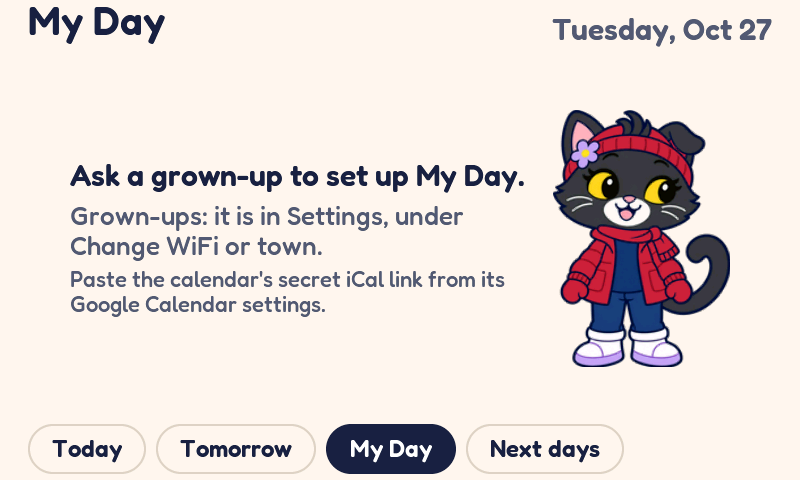
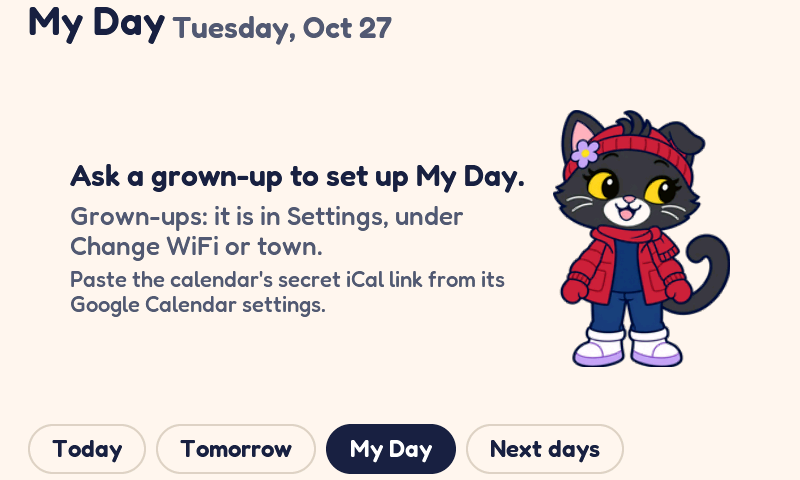
iter-36: sim gate additions (line space, measured text width), outline debug render, stack probe, refreshed renders

Changed region(s): [[0.6875, 0.0312, 0.9688, 0.0938], [0.2188, 0.0312, 0.5, 0.0938]]

diff --git a/sim/check_renders.py b/sim/check_renders.py
@@ -1361,13 +1361,13 @@ def main():
           f"40_myday: today row 1 is the all-day picture day with the ALL DAY pill ({md['myday_today0']})")
     check(md["myday_today1"] == "10:00-10:45 AM|Lila's library story time|",
           f"40_myday: today row 2 is Lila's library story time with its end time ({md['myday_today1']})")
-    check(md["myday_today2"] == "3:30-4:30 PM|Cleo's soccer practice|Roosevelt Field",
+    check(md["myday_today2"] == "3:30-4:30 PM|Cleo's soccer practice|",
           f"40_myday: today row 3 is soccer with its end time ({md['myday_today2']})")
     check(md["myday_today3"] == "4:00-4:45 PM|Video call with Grandma|",
           f"40_myday: today row 4 is the UTC call at 4 PM local with its end time ({md['myday_today3']})")
-    check(md["myday_tom0"] == "8:00-9:00 AM|School bake sale|Watchung School gym",
+    check(md["myday_tom0"] == "8:00-9:00 AM|School bake sale|",
           f"40_myday: tomorrow row 1 is the bake sale with its end time ({md['myday_tom0']})")
-    check(md["myday_tom1"] == "4:00-4:30 PM|Cleo's piano lesson|Music school",
+    check(md["myday_tom1"] == "4:00-4:30 PM|Cleo's piano lesson|",
           f"40_myday: tomorrow row 2 is Cleo's piano with its end time, folded summary unfolded ({md['myday_tom1']})")
     # Iter-15: the freshness line (fixture fetch pinned to 7:02 AM
     # today, so the same-day form). Iter-16: the NEXT tag — at the
@@ -1451,7 +1451,7 @@ def main():
           f"45_myday_late: NOW tag on soccer practice, in progress at 3:45 ({md45['myday_nowup']})")
     check(md45["myday_done"] == "Lila's library story time" and md45["myday_dimmed"] == "Lila's library story time",
           f"45_myday_late: story time DONE and dimmed as past (done={md45['myday_done']!r})")
-    check(md45["myday_tom1"] == "4:00-4:30 PM|Cleo's piano lesson|Music school",
+    check(md45["myday_tom1"] == "4:00-4:30 PM|Cleo's piano lesson|",
           f"45_myday_late: tomorrow rows unchanged in the afternoon ({md45['myday_tom1']})")
     check(md45["myday_icons"] == "camera,book,soccer" and md45["myday_half"] == "0",
           f"45_myday_late: the visible rows' icons in the afternoon (icons={md45['myday_icons']}, half={md45['myday_half']})")
@@ -1466,7 +1466,7 @@ def main():
           f"46_myday_dst: 2 rows today, tomorrow's 3 folded over the fall-back (state={md46['myday_state']}, {md46['myday_today_n']}/{md46['myday_tom_n']})")
     check(md46["myday_more_tom"] == "3" and md46["myday_icons"] == "star,videocall",
           f"46_myday_dst: the fold counts tomorrow's 3 (more={md46['myday_more_tom']}, icons={md46['myday_icons']})")
-    check(md46["myday_today0"] == "10:00-11:00 AM|Pumpkin patch visit|Chestnut Hill Farm",
+    check(md46["myday_today0"] == "10:00-11:00 AM|Pumpkin patch visit|",
           f"46_myday_dst: today's first row (today0={md46['myday_today0']!r})")
     check(md46["myday_today1"] == "1:00-1:45 PM|Video call with Grandpa|",
           f"46_myday_dst: the UTC call lands at 1 PM EDT today ({md46['myday_today1']})")
@@ -1484,24 +1484,25 @@ def main():
 
     # Iter-35: the stress and evening fixtures. Stress (9:20 AM):
     # six events today (an all-day, a DONE naming both girls with
-    # a long street address, a NOW, a NEXT with a 61-char title),
-    # one tomorrow; only the first two cards fit, the rest fold.
+    # a long street address in the feed, a NOW, a NEXT with a
+    # 38-char title), one tomorrow. Iter-36: the shorter
+    # full-width cards fit three, the rest fold.
     md47 = dump("47_myday_stress")
-    check(md47["myday_state"] == "events" and md47["myday_today_n"] == "2" and md47["myday_tom_n"] == "0",
-          f"47_myday_stress: populated, 2 cards shown of 7 (state={md47['myday_state']}, {md47['myday_today_n']}/{md47['myday_tom_n']})")
-    check(md47["myday_more_today"] == "4" and md47["myday_more_tom"] == "1",
-          f"47_myday_stress: the fold counts 4 today, 1 tomorrow ({md47['myday_more_today']}/{md47['myday_more_tom']})")
+    check(md47["myday_state"] == "events" and md47["myday_today_n"] == "3" and md47["myday_tom_n"] == "0",
+          f"47_myday_stress: populated, 3 cards shown of 7 (state={md47['myday_state']}, {md47['myday_today_n']}/{md47['myday_tom_n']})")
+    check(md47["myday_more_today"] == "3" and md47["myday_more_tom"] == "1",
+          f"47_myday_stress: the fold counts 3 today, 1 tomorrow ({md47['myday_more_today']}/{md47['myday_more_tom']})")
     check(md47["myday_today0"] == "ALL DAY|Autumn classroom photo retake day|",
           f"47_myday_stress: the all-day row ({md47['myday_today0']})")
-    check(md47["myday_today1"] == "7:30-8:15 AM|Cleo and Lila dentist checkup and cleaning|Bright Smiles Dental, 214 Maplewood Avenue, Suite 3",
-          f"47_myday_stress: the dentist row carries its long address in full ({md47['myday_today1']})")
-    check(md47["myday_today3"] == "10:00-11:00 AM|Cleo's reading buddy celebration with second grade families|Watchung School library",
-          f"47_myday_stress: the 61-char title row ({md47['myday_today3']})")
+    check(md47["myday_today1"] == "7:30-8:15 AM|Cleo and Lila dentist checkup and cleaning|",
+          f"47_myday_stress: the dentist row (the feed's long address no longer prints on the card, iter-36) ({md47['myday_today1']})")
+    check(md47["myday_today3"] == "10:00-11:00 AM|Cleo's reading buddy celebration party|",
+          f"47_myday_stress: the 38-char title row ({md47['myday_today3']})")
     check(md47["myday_done"] == "Cleo and Lila dentist checkup and cleaning"
           and md47["myday_nowup"] == "Lila's occupational therapy evaluation"
-          and md47["myday_nextup"] == "Cleo's reading buddy celebration with second grade families",
+          and md47["myday_nextup"] == "Cleo's reading buddy celebration party",
           f"47_myday_stress: DONE, NOW and NEXT at 9:20 (done={md47['myday_done']!r}, now={md47['myday_nowup']!r}, next={md47['myday_nextup']!r})")
-    check(md47["myday_icons"] == "camera,tooth",
+    check(md47["myday_icons"] == "camera,tooth,star",
           f"47_myday_stress: the visible rows' icons ({md47['myday_icons']})")
     # Evening (6:30 PM): three of today's events are finished and
     # fold into the done line; tonight's call and one of
@@ -1538,8 +1539,8 @@ def main():
     img = Image.open(os.path.join(OUT, "40_myday.png"))
     frac = non_bg_fraction(img, (28, 100, 772, 416))
     check(frac > 0.01, f"40_myday: agenda band carries rows ({frac:.1%} non-background, need > 1%)")
-    frac = non_bg_fraction(img, (600, 110, 772, 360))
-    check(frac > 0.05, f"40_myday: full Pippa at the right of the list ({frac:.1%} non-background, need > 5%)")
+    frac = non_bg_fraction(img, (630, 0, 779, 152))
+    check(frac > 0.05, f"40_myday: small Pippa in the header at the right (iter-36) ({frac:.1%} non-background, need > 5%)")
     for name in ("41_myday_empty.png", "42_myday_unconfigured.png", "44_myday_never.png"):
         img = Image.open(os.path.join(OUT, name))
         frac = non_bg_fraction(img, (545, 120, 760, 390))
@@ -1713,7 +1714,7 @@ def main():
     # One card style: white fill inside every visible card, and
     # the border line present along a card's top edge.
     for name, im, zone in (("40_myday", img, (350, 96, 480, 158)),
-                           ("40_myday", img, (500, 310, 580, 360)),
+                           ("40_myday", img, (500, 300, 580, 340)),
                            ("45_myday_late", img45, (350, 96, 480, 158))):
         n = count_where(im, zone, is_white)
         check(n > (zone[2] - zone[0]) * (zone[3] - zone[1]) * 0.9,
@@ -1724,17 +1725,17 @@ def main():
     # Pills live on line 1 only: NEXT and LILA on the story row's
     # first line, CLEO on the soccer row's first line, and no pill
     # colours anywhere on the title lines under them.
-    n = count_where(img, (420, 184, 590, 212), is_next_pink)
+    n = count_where(img, (560, 184, 762, 214), is_next_pink)
     check(n > 400, f"40_myday: NEXT pill on the story row's line 1 ({n} pink px, need > 400)")
-    n = count_where(img, (420, 184, 590, 212), is_lila_fill)
+    n = count_where(img, (560, 184, 762, 214), is_lila_fill)
     check(n > 400, f"40_myday: LILA tag on the story row's line 1 ({n} fill px, need > 400)")
-    n = count_where(img, (106, 214, 590, 248), is_next_pink) + count_where(img, (106, 214, 590, 248), is_lila_fill)
+    n = count_where(img, (106, 215, 762, 246), is_next_pink) + count_where(img, (106, 215, 762, 246), is_lila_fill)
     check(n == 0, f"40_myday: no pills on the story row's title line ({n} px, need 0)")
-    n = count_where(img, (420, 273, 590, 301), is_cleo_fill)
+    n = count_where(img, (560, 273, 762, 303), is_cleo_fill)
     check(n > 400, f"40_myday: CLEO tag on the soccer row's line 1 ({n} fill px, need > 400)")
-    n = count_where(img45, (420, 184, 590, 212), is_done_fill)
+    n = count_where(img45, (560, 184, 762, 214), is_done_fill)
     check(n > 400, f"45_myday_late: DONE pill on the story row's line 1 ({n} fill px, need > 400)")
-    n = count_where(img45, (420, 273, 590, 301), is_now_green)
+    n = count_where(img45, (560, 273, 762, 303), is_now_green)
     check(n > 400, f"45_myday_late: NOW pill in deep green on the soccer row's line 1 ({n} green px, need > 400)")
 
     # DONE readability: the finished row's title keeps a floor of
@@ -1758,7 +1759,7 @@ def main():
     # The fold line lives inside the list: its ink is present
     # above the list's bottom edge, and the 12 px band between
     # the list and the tab row stays empty.
-    frac = non_bg_fraction(img, (28, 376, 220, 408))
+    frac = non_bg_fraction(img, (28, 352, 240, 384))
     check(frac > 0.005, f"40_myday: the '+3 more' line inks inside the list ({frac:.1%} non-background, need > 0.5%)")
     n = count_where(img, (28, 413, 592, 423), is_full_ink)
     check(n == 0, f"40_myday: nothing inks the band above the tab row ({n} px, need 0)")
@@ -1773,16 +1774,14 @@ def main():
     lum45 = (p45[0] + p45[1] + p45[2]) / 3
     check(lum43 < lum45 - 8, f"43_myday_stale: card fill muted vs fresh (lum {lum43:.0f} vs {lum45:.0f})")
 
-    # Stress: the long location truncates inside its card (ink on
-    # the location line, none past the card's right border), and
-    # the evening collapse line inks above tonight's card.
-    n = count_where(img47, (106, 282, 590, 312), is_full_ink)
-    check(n > 200, f"47_myday_stress: the dentist location inks its line ({n} px, need > 200)")
-    # The gutter between the card's right border (x 591) and
-    # Pippa's ink stays empty: the truncated location stops at
-    # the border instead of running underneath her.
-    n = count_where(img47, (594, 282, 618, 312), is_full_ink)
-    check(n == 0, f"47_myday_stress: no location ink past the card's border ({n} px, need 0)")
+    # Stress (iter-36): the dentist title inks its one line, and
+    # the band under it stays empty: no second title line and no
+    # location line (locations no longer print on cards). The
+    # evening collapse line inks above tonight's card.
+    n = count_where(img47, (106, 213, 700, 247), is_full_ink)
+    check(n > 200, f"47_myday_stress: the dentist title inks its one line ({n} px, need > 200)")
+    n = count_where(img47, (106, 246, 758, 260), is_full_ink)
+    check(n == 0, f"47_myday_stress: no second line under the dentist title ({n} px, need 0)")
     frac = non_bg_fraction(img48, (28, 116, 300, 150))
     check(frac > 0.01, f"48_myday_evening: the '3 done today' line inks ({frac:.1%} non-background, need > 1%)")
 
@@ -1791,7 +1790,7 @@ def main():
     n = count_where(img, (620, 430, 795, 474), is_tab_ink)
     check(n > 150, f"40_myday: freshness ink in the tab-bar row ({n} px, need > 150)")
     for name, im in (("43_myday_stale", img43), ("45_myday_late", img45)):
-        n = count_where(im, (630, 48, 795, 92), is_warn_bg)
+        n = count_where(im, (630, 44, 772, 84), is_warn_bg)
         check(n == 0, f"{name}: no weather-stale chip, only the calendar can be stale ({n} px, need 0)")
     img44 = Image.open(os.path.join(OUT, "44_myday_never.png"))
     # The zone starts below the message Pippa's boot shadow; a
@@ -1818,17 +1817,20 @@ def main():
 
     # Pippa one size (iter-24, round 20, fix 5): the same drawn
     # height in the populated and message states, so she never
-    # visibly grows or shrinks switching between them.
+    # visibly grows or shrinks switching between them. Iter-36
+    # supersedes this on the populated page only: she is the
+    # small header cat there now, while the message states keep
+    # the full-size cat, so the two heights differ on purpose.
     def cat_ink_h(im, box):
         rows = ink_rows(im, box, lambda r, g, b: abs(r - 251) + abs(g - 246) + abs(b - 238) > 40)
         return (rows[-1] - rows[0] + 1) if rows else 0
 
-    hp = cat_ink_h(img, (595, 55, 795, 330))
+    hp = cat_ink_h(img, (615, 0, 795, 155))
     img41p = Image.open(os.path.join(OUT, "41_myday_empty.png"))
     hm = cat_ink_h(img41p, (520, 54, 795, 424))
     print(f"  Pippa ink height: populated {hp}, message {hm}")
-    check(hp >= 250 and abs(hp - hm) <= 2,
-          f"41_myday_empty: Pippa one drawn height in every state (populated {hp} vs message {hm} ink rows, need equal within 2)")
+    check(120 <= hp <= 170 and hm >= 250,
+          f"41_myday_empty: populated Pippa is the small header cat, message states keep the full cat (iter-36) (populated {hp} vs message {hm} ink rows)")
 
     # Iter-25: the outfit rotation, asserted on the dumps. The six
     # dress-band Todays (2026-11-08..13, identical weather) walk the

diff --git a/sim/sim_main.c b/sim/sim_main.c
@@ -7,6 +7,7 @@
  * clock independently of the forecast's own time (the plan's stale/rollover
  * cases). Without it the clock is the forecast time + 7 minutes, as before.
  */
+#include <pthread.h>
 #include <stdio.h>
 #include <stdlib.h>
 #include <string.h>
@@ -123,6 +124,20 @@ static void pump(int frames)
 }
 
 static int s_layout_fails;
+
+/* Like save(), but without the layout gate: for the iter-36
+ * outline debug render, whose 1 px borders deliberately
+ * perturb the layout the gate measures. */
+static void save_raw(const char *dir, const char *name)
+{
+    pump(30);
+    char path[512];
+    snprintf(path, sizeof(path), "%s/%s.rgb565", dir, name);
+    FILE *f = fopen(path, "wb");
+    fwrite(fb, 2, UI_W * UI_H, f);
+    fclose(f);
+    printf("saved %s\n", path);
+}
 
 static void save(const char *dir, const char *name)
 {
@@ -380,11 +395,15 @@ static void fixture_fetched_at(int hour, int min)
 /* The usual pin: a 7:02 AM fetch ("Updated 7:02 AM"). */
 /* Iter-35: the stress shapes the layout rework has to survive.
  * Invented events (the repo is public), modelled on the lengths
- * and tag combinations real family days produce: a 60+ character
- * title, a long street-address location, an all-day event, names
- * for one kid, the other, and both. The scenario clock is 9:20
- * AM: one event is DONE, one is NOW, three are still to come, and
- * tomorrow is sparse (a single event). */
+ * and tag combinations real family days produce: titles in the
+ * 30-45 character band that used to wrap at the old narrowed
+ * width, a long street-address location in the feed (iter-36:
+ * locations no longer print on cards, but the feed still
+ * carries them), an all-day event, names for one kid, the
+ * other, and both. Two cards carry two pills each (NOW + LILA,
+ * NEXT + CLEO). The scenario clock is 9:20 AM: one event is
+ * DONE, one is NOW, three are still to come, and tomorrow is
+ * sparse (a single event). */
 static void fixture_cal_stress(void)
 {
     struct tm today = now_tm, tom = now_tm;
@@ -415,7 +434,7 @@ static void fixture_cal_stress(void)
                   d0, d0);
     n += snprintf(ics + n, sizeof(ics) - n,
                   "BEGIN:VEVENT\r\nUID:sim-s4\r\nDTSTART;TZID=America/New_York:%sT100000\r\n"
-                  "DTEND;TZID=America/New_York:%sT110000\r\nSUMMARY:Cleo's reading buddy celebration with second grade families\r\n"
+                  "DTEND;TZID=America/New_York:%sT110000\r\nSUMMARY:Cleo's reading buddy celebration party\r\n"
                   "LOCATION:Watchung School library\r\nEND:VEVENT\r\n",
                   d0, d0);
     n += snprintf(ics + n, sizeof(ics) - n,
@@ -496,10 +515,114 @@ static void fixture_fetched(void)
     fixture_fetched_at(7, 2);
 }
 
+/* Iter-36 stack probe (host-only diagnostic): runs the My Day
+ * populate path, the one that overflowed the board's 8 KB lvgl
+ * stack, on a pattern-filled pthread stack and reports the peak
+ * usage it finds afterwards. The host build overstates the
+ * device number (8-byte pointers where the board has 4, wider
+ * frames), so a host peak over 8192 is consistent with the
+ * board's overflow at 8192, and a host peak well under 16384
+ * backs the board's bump to a 16 KB lvgl stack. Run with:
+ * WB_SIM_STACK_PROBE=1 ./render out scenarios */
+static uint8_t s_probe_stack[1 << 20] __attribute__((aligned(64)));
+static const char *s_probe_sc;
+
+static void *probe_thread(void *arg)
+{
+    (void)arg;
+    lv_init();
+    lv_tick_set_cb(tick_cb);
+    lv_display_t *d = lv_display_create(UI_W, UI_H);
+    lv_display_set_buffers(d, fb, NULL, sizeof(fb), LV_DISPLAY_RENDER_MODE_DIRECT);
+    lv_display_set_flush_cb(d, flush_cb);
+    ui_init("Cleo & Lila");
+    ui_set_time_cb(time_cb);
+    setenv("TZ", "America/New_York", 1);
+    tzset();
+    const char *early = getenv("WB_SIM_STACK_PROBE");
+    if (early != NULL && strcmp(early, "boot") == 0) {
+        /* Init and the boot screen only: the floor every other
+         * path stands on. */
+        ui_show_boot(NULL);
+        pump(30);
+        return NULL;
+    }
+    load(s_probe_sc, "brief_morning");
+    show();
+    if (early != NULL && strcmp(early, "outfit") == 0) {
+        /* The outfit page's render and draw, nothing else. */
+        pump(30);
+        return NULL;
+    }
+    ui_set_calendar_configured(true);
+    ui_test_set_page(2);
+    const char *mode = getenv("WB_SIM_STACK_PROBE");
+    if (mode != NULL && strcmp(mode, "empty") == 0) {
+        /* No feed ever lands: the lightweight message state, the
+         * path the board took in the earlier "0 bytes" boot. */
+        pump(30);
+        return NULL;
+    }
+    if (mode != NULL && strcmp(mode, "plain") == 0) {
+        /* The ordinary six-event fixture day. */
+        fixture_cal(true);
+        fixture_fetched();
+        pump(30);
+        return NULL;
+    }
+    /* The stress day: the full 12-card pool is filled and the
+     * fit pass folds the overflow, the deepest the populate
+     * path gets. */
+    fixture_cal_stress();
+    fixture_fetched();
+    now_tm.tm_hour = 9;
+    now_tm.tm_min = 20;
+    ui_refresh_clock();
+    pump(30);
+    ui_test_layout_check("stack_probe_stress");
+    /* The evening shape too: the collapse partition runs first. */
+    fixture_cal_evening();
+    fixture_fetched_at(18, 2);
+    now_tm.tm_hour = 18;
+    now_tm.tm_min = 30;
+    ui_refresh_clock();
+    pump(30);
+    ui_test_layout_check("stack_probe_evening");
+    return NULL;
+}
+
+static int run_stack_probe(const char *sc)
+{
+    s_probe_sc = sc;
+    memset(s_probe_stack, 0xA5, sizeof(s_probe_stack));
+    pthread_attr_t attr;
+    pthread_attr_init(&attr);
+    pthread_attr_setstack(&attr, s_probe_stack, sizeof(s_probe_stack));
+    pthread_t th;
+    if (pthread_create(&th, &attr, probe_thread, NULL) != 0) {
+        fprintf(stderr, "stack probe: pthread_create failed\n");
+        return 1;
+    }
+    pthread_join(th, NULL);
+    pthread_attr_destroy(&attr);
+    size_t untouched = 0;
+    while (untouched < sizeof(s_probe_stack) && s_probe_stack[untouched] == 0xA5) {
+        untouched++;
+    }
+    printf("STACK PROBE: peak stack used %u bytes (host x86-64 build; the device "
+           "build's pointers and frames are smaller)\n",
+           (unsigned)(sizeof(s_probe_stack) - untouched));
+    return 0;
+}
+
 int main(int argc, char **argv)
 {
     const char *out = argc > 1 ? argv[1] : "out";
     const char *sc = argc > 2 ? argv[2] : "scenarios";
+
+    if (getenv("WB_SIM_STACK_PROBE")) {
+        return run_stack_probe(sc);
+    }
 
     lv_init();
     lv_tick_set_cb(tick_cb);
@@ -926,6 +1049,24 @@ int main(int argc, char **argv)
     pump(10);
     save(out, "48_myday_evening");
     dump(out, "48_myday_evening");
+
+    /* Iter-36: the debug outline render of the worst-case
+     * fixture: the stress day again, with a 1 px outline drawn
+     * on every object, so the boxes the layout gate reasons
+     * about are visible in the PNG. The gate does not run on
+     * this frame (the outlines inset content by a pixel); the
+     * plain 47 render above is the gated measurement of the
+     * same state. */
+    fixture_cal_stress();
+    fixture_fetched();
+    now_tm.tm_hour = 9;
+    now_tm.tm_min = 20;
+    ui_refresh_clock();
+    pump(10);
+    ui_test_outline(true);
+    save_raw(out, "47b_myday_stress_outline");
+    ui_test_outline(false);
+    pump(10);
 
     /* Iter-35: a LOCAL-ONLY real-data fixture, gated on an env
      * var so `make shots` never sees it. The file named by
